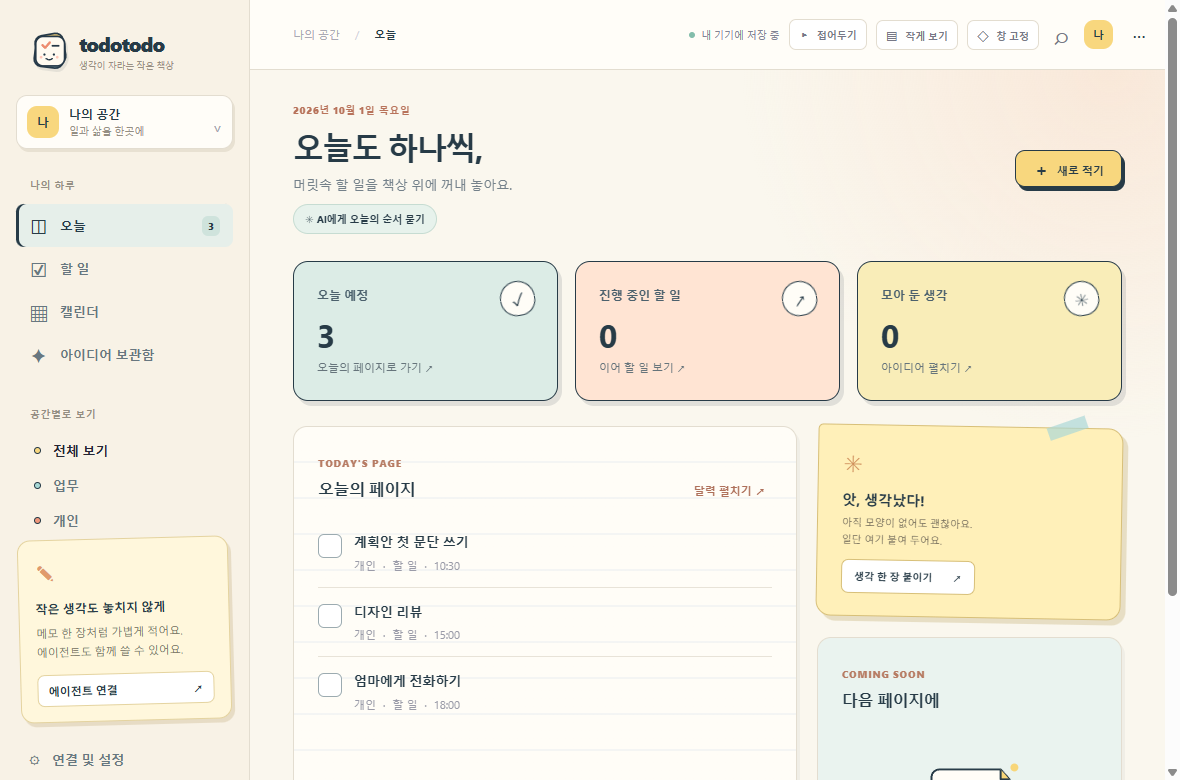
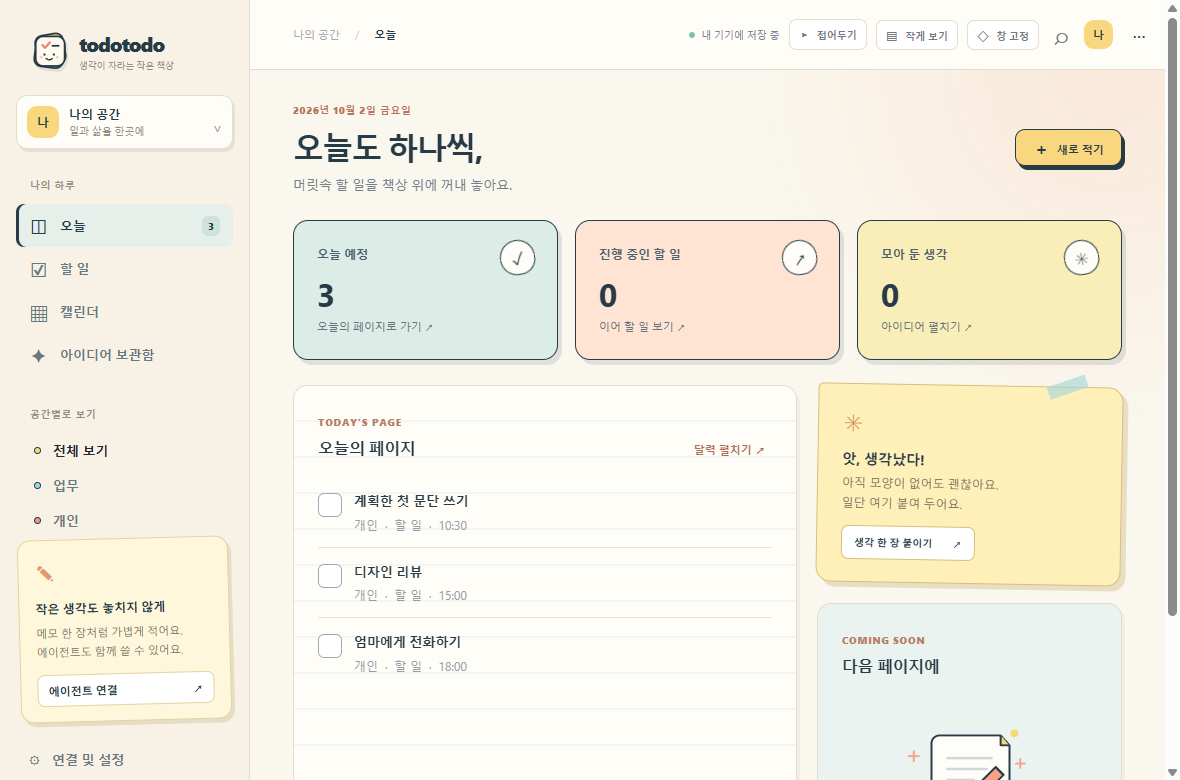
Show optional AI brief only when connected

diff --git a/static/app.js b/static/app.js
@@ -946,10 +946,15 @@ async function initializeDesktop() {
   $('#reminder-minutes').onchange = event => save('reminderMinutes',Number(event.target.value));
   $('#edge-side').onchange = event => save('edgeSide',event.target.value);
   $('#desktop-settings').insertAdjacentHTML('afterend', `<div class="panel connect-panel" id="ai-settings"><div class="connect-symbol">✎</div><h2>선택해서 쓰는 AI</h2><p>연결하지 않아도 TodoTodo의 모든 기본 기능을 쓸 수 있어요. 키를 등록하면 오늘 일정의 제목과 시간만 직접 요청할 때 전송합니다.</p><label class="field">제공자<select id="ai-provider"><option value="openai">OpenAI API · GPT</option><option value="anthropic">Claude API</option></select></label><label class="field">개인 API 키<input id="ai-key-input" type="password" autocomplete="off" placeholder="API 키를 입력하세요"></label><div class="ai-key-actions"><button class="subtle-button" id="save-ai-key">안전하게 저장</button><button class="subtle-button" id="remove-ai-key">연결 해제</button><span id="ai-key-status"></span></div><p class="connect-note">키는 운영체제 보안 저장소로 암호화됩니다. ChatGPT·Claude 구독과 API 사용료는 별개예요. 기존 계정으로 쓰려면 위 MCP 설정을 Codex 또는 Claude Desktop에 등록하세요.</p></div>`);
-  $('#home-view .page-heading p').insertAdjacentHTML('afterend','<button class="ai-brief-button" id="ai-brief-button">✳ AI에게 오늘의 순서 묻기</button>');
+  $('#home-view .page-heading p').insertAdjacentHTML('afterend','<button class="ai-brief-button" id="ai-brief-button" hidden>✳ AI에게 오늘의 순서 묻기</button>');
   $('#ai-provider').value = localStorage.getItem('todo-provider') || 'openai';
   let keyStatus = await window.todoDesktop.aiStatus();
-  const updateKeyStatus = () => {const connected = keyStatus[$('#ai-provider').value]; $('#ai-key-status').textContent = connected ? '● 연결됨' : '○ 연결 안 됨'; $('#ai-key-status').classList.toggle('connected',connected);};
+  const updateKeyStatus = () => {
+    const connected = Boolean(keyStatus[$('#ai-provider').value]);
+    $('#ai-key-status').textContent = connected ? '● 연결됨' : '○ 연결 안 됨';
+    $('#ai-key-status').classList.toggle('connected',connected);
+    $('#ai-brief-button').hidden = !connected;
+  };
   $('#ai-provider').onchange = () => {localStorage.setItem('todo-provider',$('#ai-provider').value); updateKeyStatus();};
   $('#save-ai-key').onclick = async () => {try {const key = $('#ai-key-input').value.trim(); if (!key) return toast('API 키를 입력하세요.'); keyStatus = await window.todoDesktop.aiKey($('#ai-provider').value,key); $('#ai-key-input').value = ''; updateKeyStatus(); toast('이 기기에 키를 저장했습니다.');} catch(error) {toast(error.message);}};
   $('#remove-ai-key').onclick = async () => {try {keyStatus = await window.todoDesktop.aiKey($('#ai-provider').value,''); updateKeyStatus(); toast('연결을 해제했습니다.');} catch(error) {toast(error.message);}};

diff --git a/static/theme.css b/static/theme.css
@@ -312,6 +312,7 @@ button:focus-visible, input:focus-visible, textarea:focus-visible, select:focus-
 .connection-tabs button.selected { border-color: var(--ink); background: #f8e9bd; color: var(--ink); }
 .bundle-button { margin-left: 6px; }
 .ai-brief-button { display: inline-flex; align-items: center; gap: 4px; border: 1px solid #c6dcd2; background: #e7f2ec; border-radius: 999px; color: var(--ink); font-size: 10px; font-weight: 700; padding: 7px 11px; margin-top: 11px; transition: transform .25s cubic-bezier(.2,1.5,.4,1),background .2s; }
+.ai-brief-button[hidden] { display: none; }
 .ai-brief-button:hover { transform: translateY(-2px); background: #d9ebe2; }
 .ai-brief-button:disabled { opacity: .6; cursor: wait; }
 .ai-key-actions { display: flex; flex-wrap: wrap; align-items: center; gap: 7px; }
